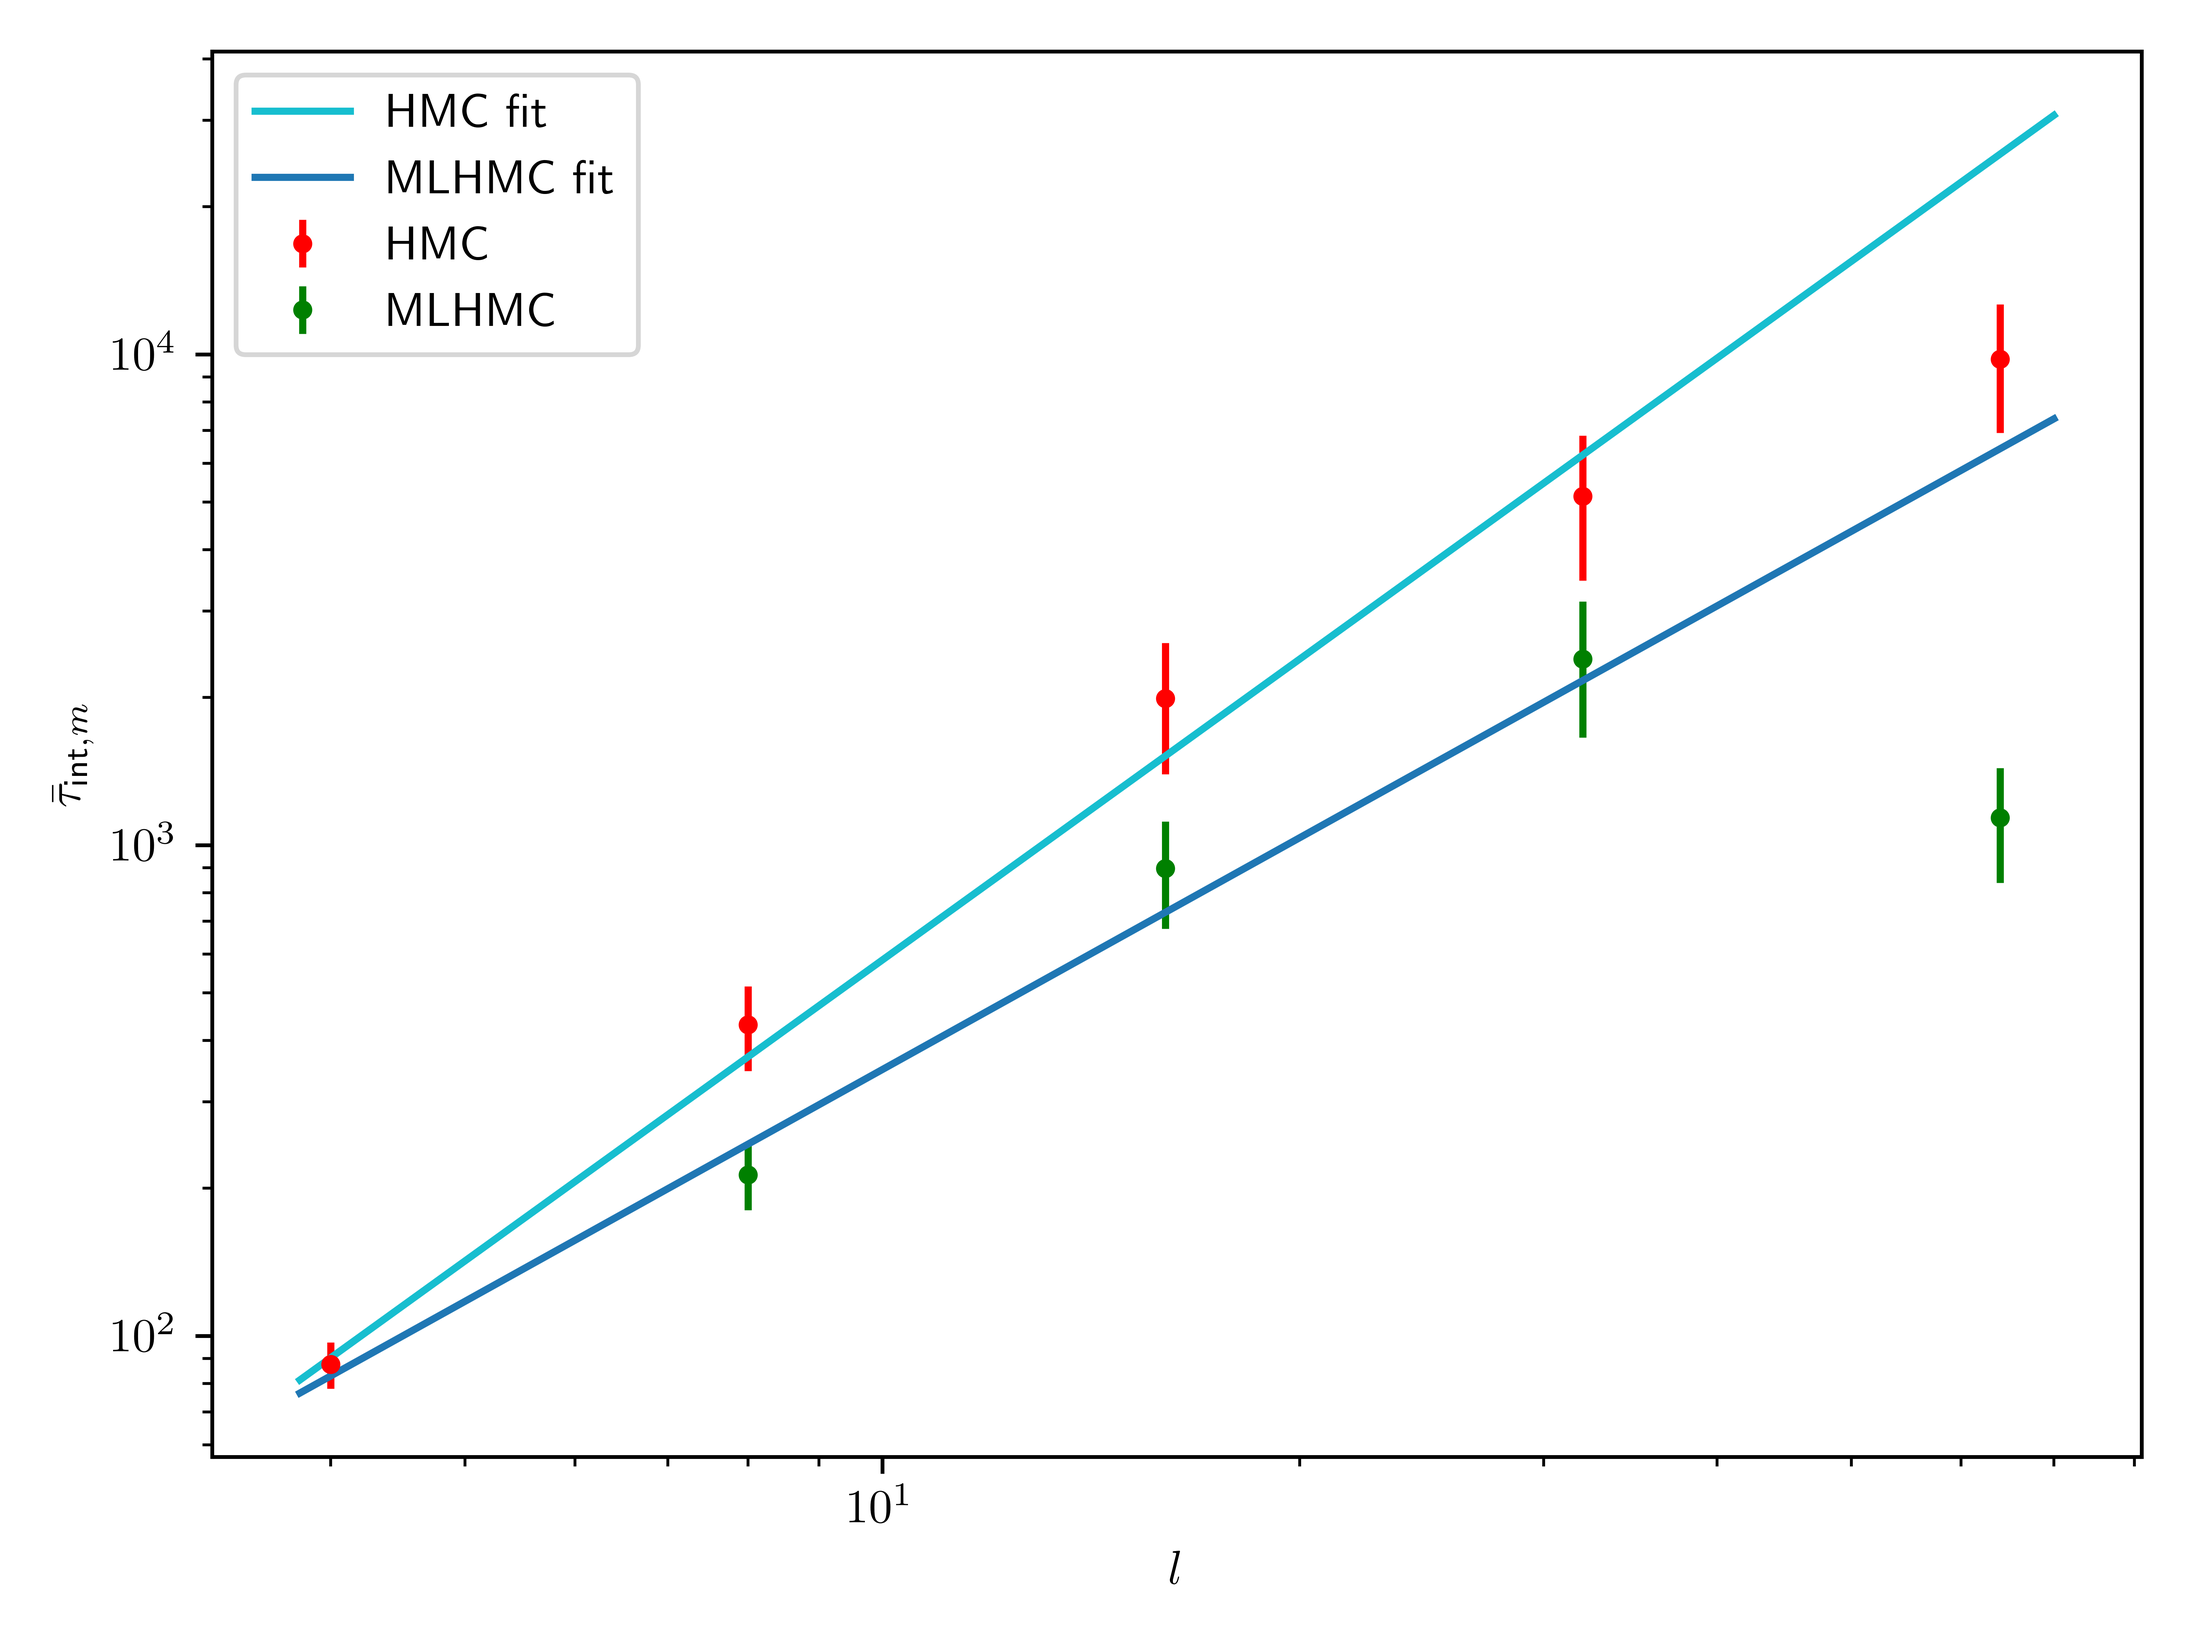
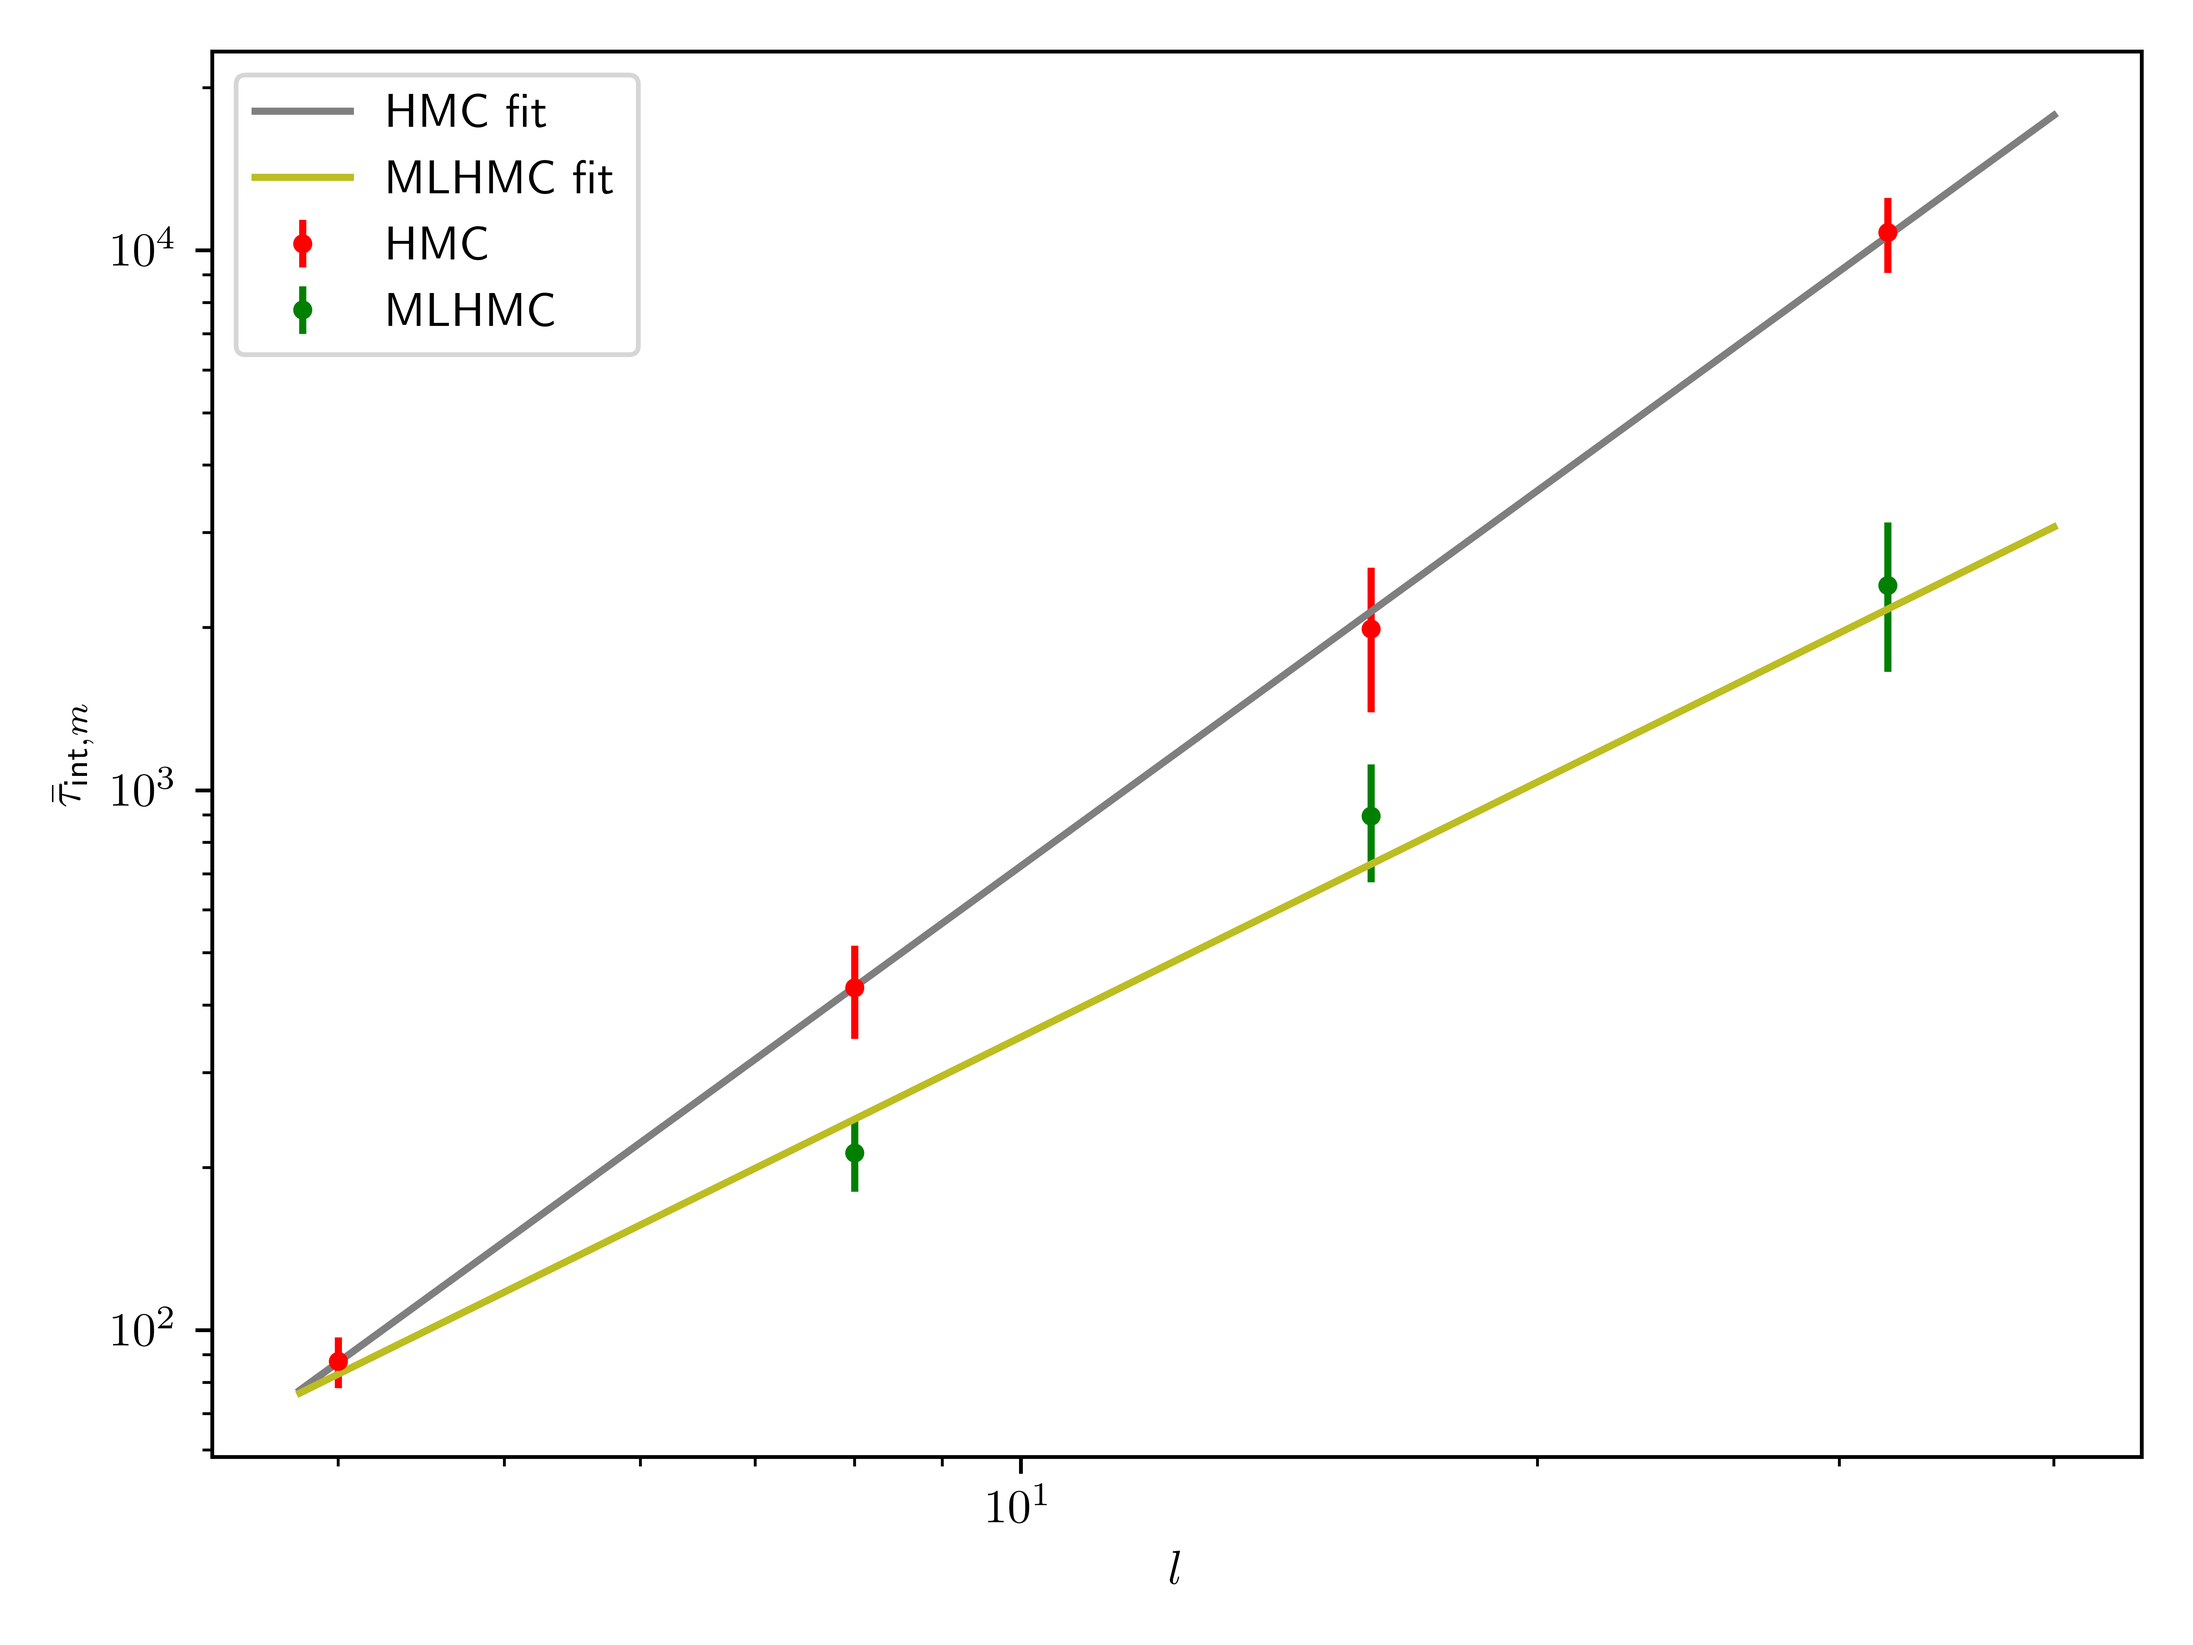
more plots

diff --git a/plot/plot.py b/plot/plot.py
@@ -63,24 +63,24 @@ def append_observable(name, measurements_group_, observable_list, observable_err
         observable_error_list.append(np.sqrt(temp))
 
 
-def make_auto_correlation_plot_to_ax(name, measurements_group_, ax_):
+def make_auto_correlation_plot_to_ax(name, measurements_group_, ax_, suffix="", label=""):
     observable_group = measurements_group_.get(name)
-    observable_auto_correlation_dataset = observable_group.get("auto_correlation")
+    observable_auto_correlation_dataset = observable_group.get("auto_correlation" + suffix)
     observable_auto_correlation = np.zeros(observable_auto_correlation_dataset.size)
     observable_auto_correlation_dataset.read_direct(observable_auto_correlation,
                                                     np.s_[0:observable_auto_correlation_dataset.size],
                                                     np.s_[0:observable_auto_correlation_dataset.size])
 
-    ax_.scatter(np.arange(observable_auto_correlation.size), observable_auto_correlation)
+    ax_.plot(np.arange(observable_auto_correlation.size), observable_auto_correlation, label=label)
 
 
-def make_auto_correlation_plot(name, measurements_group_):
+def make_auto_correlation_plot(name, measurements_group_, suffix=""):
     fig_, ax_ = plt.subplots()
     fig_: plt.Figure
     ax_: plt.Axes
-    make_auto_correlation_plot_to_ax(name, measurements_group_, ax_)
+    make_auto_correlation_plot_to_ax(name, measurements_group_, ax_, suffix)
     ax_.set_xlabel(r"t")
-    ax_.set_ylabel(r"$\bar{\Gamma}_{e}$")
+    ax_.set_ylabel(r"$\bar{\Gamma}_{m}$")
     # ax_.set_yscale("log")
     ax_.set_xlim(-1, 100)
     fig_.set_tight_layout(True)
@@ -209,6 +209,9 @@ def info_plot(sub_folder_name, observable_name=magnetization_name):
     bootstrap_variance = []
     bootstrap_mean = []
     file_list = []
+    fig_correl, ax_correl = plt.subplots()
+    fig_correl: plt.Figure
+    ax_correl: plt.Axes
     for file in os.listdir(sub_folder_name):
         if file.startswith("out_") and file.endswith(".h5"):
             file_list.append(sub_folder_name + file)
@@ -247,19 +250,32 @@ def info_plot(sub_folder_name, observable_name=magnetization_name):
                 observable_group.attrs["int_auto_correlation_time_stat_error" + last_sufix])
             gamma.append(level0_group.attrs["gamma"])
             system_size.append(len(level0_group.get("h")))
+
             tick_time.append(level0_group.attrs["tick_time"])
             interpolation_type.append(level0_group.attrs["inter_type"])
             nu_pre_level0.append(level0_group.attrs["nu_pre"])
             nu_post_level0.append(level0_group.attrs["nu_post"])
+            label = "abc"
             if "level1" in f:
+                label = "MLHMC"
                 title = "MLHMC " + title
                 level1_group = f.get("level1")
                 nu_pre_level1.append(level1_group.attrs["nu_pre"])
                 nu_post_level1.append(level1_group.attrs["nu_post"])
             else:
+                label = "HMC"
                 title = "HMC " + title
                 nu_pre_level1.append(-1)
                 nu_post_level1.append(-1)
+
+            if system_size[-1] == 32 * 32:
+                make_auto_correlation_plot_to_ax(observable_name, measurements_group, ax_correl, last_sufix, label)
+                ax_correl.set_xlabel(r"t")
+                ax_correl.set_ylabel(r"$\bar{\Gamma}_{m}$")
+                # ax_.set_yscale("log")
+                ax_correl.set_xlim(-1, 3000)
+                ax_correl.set_ylim(0, 1.05)
+                fig_correl.set_tight_layout(True)
 
             ax_.set_title(title)
             ax_.set_xlabel("$N_{ensemble}$")
@@ -269,6 +285,9 @@ def info_plot(sub_folder_name, observable_name=magnetization_name):
             fig_.savefig(file.split('.')[0] + observable_name + "test")
             plt.close(fig_)
 
+    ax_correl.legend()
+    fig_correl.savefig(sub_folder_name + observable_name + f"_auto_correlation_{42}.png")
+    plt.close(fig_correl)
     int_auto_correlation_time = np.array(int_auto_correlation_time)
     int_auto_correlation_time_bias = np.array(int_auto_correlation_time_bias)
     int_auto_correlation_time_stat_error = np.array(int_auto_correlation_time_stat_error)
@@ -361,7 +380,7 @@ def info_plot(sub_folder_name, observable_name=magnetization_name):
     print("HMC", observable_name, "a =", popt[0], "+-", np.sqrt(pcov[0, 0]), "z =", popt[1], "+-", np.sqrt(pcov[1, 1]),
           "chi2 =", chi2,
           file=f)
-    x_fit = np.linspace(3.8, 70)
+    x_fit = np.linspace(3.8, 40)
     y_fit = fit_function(x_fit, *popt)
     ax1_.plot(x_fit, y_fit, label="HMC fit")
 
@@ -801,7 +820,7 @@ def crit_int_auto_correlation_plot(sub_folder_name, observable_name=magnetizatio
 # crit_int_auto_correlation_plot("gs_32_CB_ga_1_levels_2/")
 # crit_int_auto_correlation_plot("gs_64_CB_ga_1_levels_2/")
 # info_plot("volume_exponent/", magnetization_squared_name)
-# info_plot("volume_exponent_test/")
+info_plot("volume_exponent_test/")
 # check_thermalisation("volume_exponent/")
-base_plot("HMC_physical_check/")
+# base_plot("HMC_physical_check/")
 # base_plot("MLHMC_physical_check/")

diff --git a/src/Analyzer/Analyzer.cpp b/src/Analyzer/Analyzer.cpp
@@ -87,13 +87,13 @@ std::vector<double> Analyzer::auto_correlation(size_t max_t) {
     vec_temp = VectorX::Map(&ret[0], ret.size());
     WriteVectorX(vec_temp, group, auto_correlation_name);
     double int_auto_correlation_time_bias{(2 * W + 1) * int_auto_correlation_time / static_cast<double>(data.size())};
-    double int_auto_correlation_time_stat_error{2. * sqrt(W + 0.5 - int_auto_correlation_time) *
-                                                int_auto_correlation_time / sqrt(static_cast<double>(data.size()))};
-
     int_auto_correlation_time /= (1 - (2 * W + 1) / static_cast<double>(data.size()));
     if (int_auto_correlation_time < 0.5) {
         int_auto_correlation_time = 0.5;
     }
+    double int_auto_correlation_time_stat_error{2. * sqrt(W + 0.5 - int_auto_correlation_time) *
+                                                int_auto_correlation_time / sqrt(static_cast<double>(data.size()))};
+
     std::cout << "i:\t" << int_auto_correlation_time << "\tW:\t" << W << std::endl;
     // this is really the variance!!!
     write_static_size(int_auto_correlation_time, group, int_auto_correlation_time_name);

diff --git a/src/main.cpp b/src/main.cpp
@@ -506,9 +506,9 @@ int main([[maybe_unused]] int argc, [[maybe_unused]] char *argv[]) {
     //test_HMC(std::string(DATA_DIR).append("HMCTest1.dat"));
     //test_multi_level_hmc();
     //test_hmc_measurements();
-    //DoMultiLevelMeasurementsFromDir(std::string("volume_exponent_test"), std::string("ising"), false);
-    /*size_t i{17};
-    HMCCriticalSimulation(4, 5, 1. / 5., i++, 100000);
+    DoMultiLevelMeasurementsFromDir(std::string("newnew"), std::string("ising"), false);
+    /*size_t i{18};
+    HMCCriticalSimulation(32, 10, 1. / 10., i++, 100000);
     //HMCCriticalSimulationXY(16, 12, 1. / 12.);
     std::vector<size_t> nu_pre = {0, 0};
     std::vector<size_t> nu_post = {1, 1};
